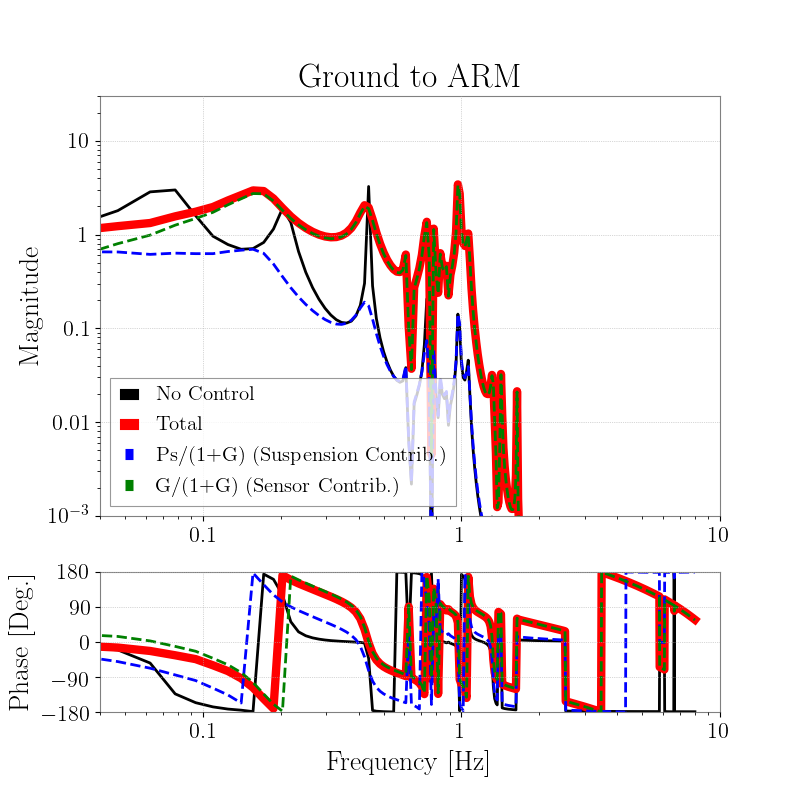
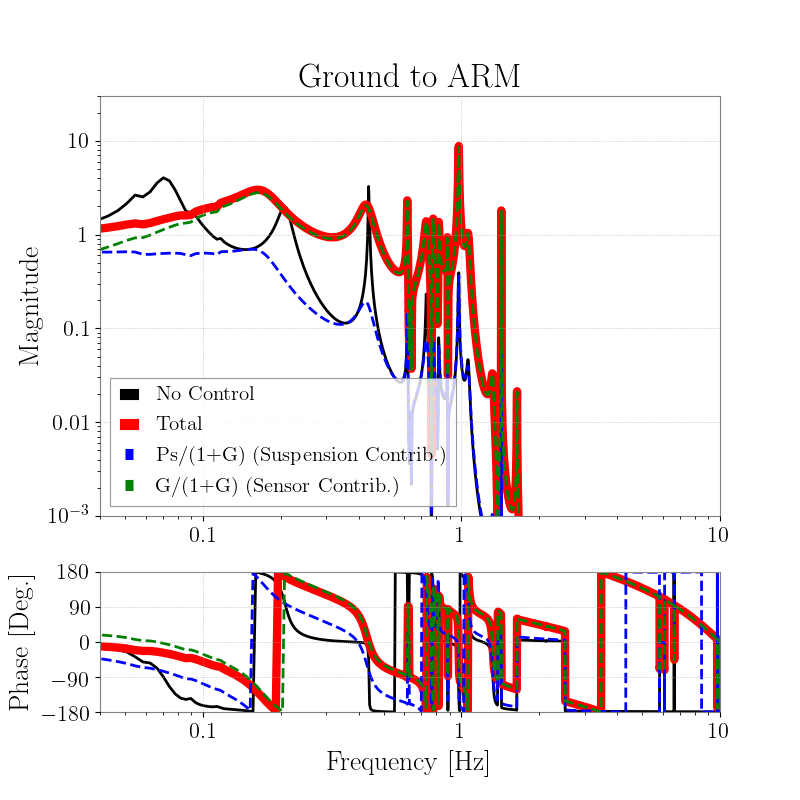
Update

diff --git a/alcs/vismodel/etmx.py b/alcs/vismodel/etmx.py
@@ -1,27 +1,26 @@
 #
 #! coding: utf-8
-import os 
-from scipy import signal
-import scipy
-from scipy.signal import zpk2tf
+import os
 import numpy as np
-from control import matlab
+from scipy.io import loadmat
+from scipy.signal import zpk2tf
 import matplotlib.pyplot as plt
-import control
+
+from control import matlab
 
 from gwpy.frequencyseries import FrequencySeries
 from gwpy.timeseries import TimeSeries
 
 from miyopy import seismodel
-from susmodel import TypeA
-from filt import servo,servo2,servo3,servo4
-from lvdt import lvdt
-from geophone import geo,geo_tf
 from miyopy.utils.trillium import selfnoise as ntr120
+
+from lvdt import lvdt
+from susmodel import TypeA
+
 
 # Utils
 def tf(sys,omega):
-    mag, phase, omega = control.matlab.bode(sys,omega,Plot=False)
+    mag, phase, omega = matlab.bode(sys,omega,Plot=False)
     mag = np.squeeze(mag)
     phase = np.squeeze(phase)
     G = mag*np.exp(1j*phase)
@@ -30,7 +29,7 @@ def tf(sys,omega):
     return hoge
 
 
-nominal     = False
+nominal     = True
 use_oplev   = False
 use_arm     = True
 plot_req    = False
@@ -38,7 +37,8 @@ plot_noctrl = False
 sc = False
 
 # Actual oltf
-prefix = '/Users/miyo/Dropbox/Git/kagra-gif/acs/vismodel/etmx/190903/'
+#prefix = '/Users/miyo/Dropbox/Git/kagra-gif/acs/vismodel/etmx/190903/'
+prefix = './etmx/190903/'
 fname_mag = 'oltf.0'
 fname_pha = 'oltf.1'
 _freq,mag = np.loadtxt(prefix+fname_mag,unpack=True)
@@ -50,13 +50,13 @@ oltf0 = FrequencySeries(mag*np.exp(1j*np.deg2rad(pha)),frequencies=_freq)
 # ------------------------------------------------------------
 # IFO Requirement
 # ------------------------------------------------------------
-prefix = '/Users/miyo/Dropbox/Git/kagra-gif/acs/requirement/JGW-T1809214-v1/BRSE/'
+prefix = '../requirement/JGW-T1809214-v1/BRSE/'
 fname_brse = 'DisplacementNoiseRequirement.dat'
 _freq, _,ETMX_brse,_,_,_,_,_,_ = np.loadtxt(prefix+fname_brse,dtype=np.float32,
                                        delimiter=',',unpack=True)
 req_brse = ETMX_brse*1e6
 req_brse = FrequencySeries(req_brse,frequencies=_freq)
-prefix = '/Users/miyo/Dropbox/Git/kagra-gif/acs/requirement/JGW-T1809214-v1/DRSE/'
+prefix = '../requirement/JGW-T1809214-v1/DRSE/'
 fname_drse = 'DisplacementNoiseRequirement.dat'
 _freq, _,ETMX_drse,_,_,_,_,_,_ = np.loadtxt(prefix+fname_drse,dtype=np.float32,
                                        delimiter=',',unpack=True)
@@ -135,7 +135,7 @@ ntr120 = FrequencySeries(ntr120,frequencies=f)*1e6
 prefix = os.getcwd() + '/SuspensionControlModel/script/typeA/'
 matfile = prefix + 'servo/servoIPL.mat'
 #print matfile
-mat_dict = scipy.io.loadmat(matfile,struct_as_record=False)
+mat_dict = loadmat(matfile,struct_as_record=False)
 servoIPL = mat_dict['servoIPL_st'][0][0]
 z = servoIPL.Z[0][0][:,0]
 p = servoIPL.P[0][0][:,0]
@@ -216,9 +216,11 @@ ax.loglog(gnd,label='Seismic Noise',color='black',linewidth=2,alpha=1,zorder=1)
 #ax.loglog(gnd.rms(),color='black',linestyle='dashdot',linewidth=2,zorder=1)
 total.name='total'
 if sc:
-    total.abs().write('total_wsc.hdf5')
+    pass
+    #total.abs().write('total_wsc.hdf5')
 else:
-    total.abs().write('total_wosc.hdf5')    
+    pass
+    #total.abs().write('total_wosc.hdf5')    
 ax.loglog(total.abs(),label='Sum',color='r',linewidth=3,alpha=0.8,zorder=1)
 ax.loglog(total.abs().rms(),color='r',linewidth=2,linestyle='dashdot',zorder=1)
 ax.loglog((gnd*H_gndsus2tm).abs(),'--',label='Seismic Noise (Suspension Contrib.)',linewidth=2)
@@ -226,7 +228,7 @@ ax.loglog((gnd*H_gndsens2tm).abs(),'--',label='Seismic Noise (Sensor Contrib.)',
 #ax.loglog((nlvdt*H_nlvdt2tm).abs(),'--',label='Sensor Noise',linewidth=2)
 if use_oplev:
     ax.loglog(tm_oplev,label='TM oplev',color='m',linewidth=3,zorder=1)
-if use_arm:
+if use_arm and not nominal:
     ax.loglog(xarm,label='xarm',color='m',linewidth=3,zorder=1)    
 if plot_noctrl:
     ax.loglog((gnd*H_gnd2tm_noctrl).abs(),label='No Control',color='gray',linewidth=2)
@@ -314,7 +316,6 @@ print ('Plot Sensor Noise')
 fig,ax = plt.subplots(1,1,figsize=(8,8))
 ax.set_title('Noise')
 ax.loglog(gnd,label='Ground',color='black',linewidth=2,alpha=1,zorder=1)
-#ax.loglog(ngeo,'--',label='Geophone Noise',linewidth=2)
 ax.loglog(ntr120,'--',label='Seismometer Noise',linewidth=2)
 ax.loglog(nlvdt,'--',label='LVDT Noise',linewidth=2)
 ax.set_xlabel('Frequency [Hz]')
